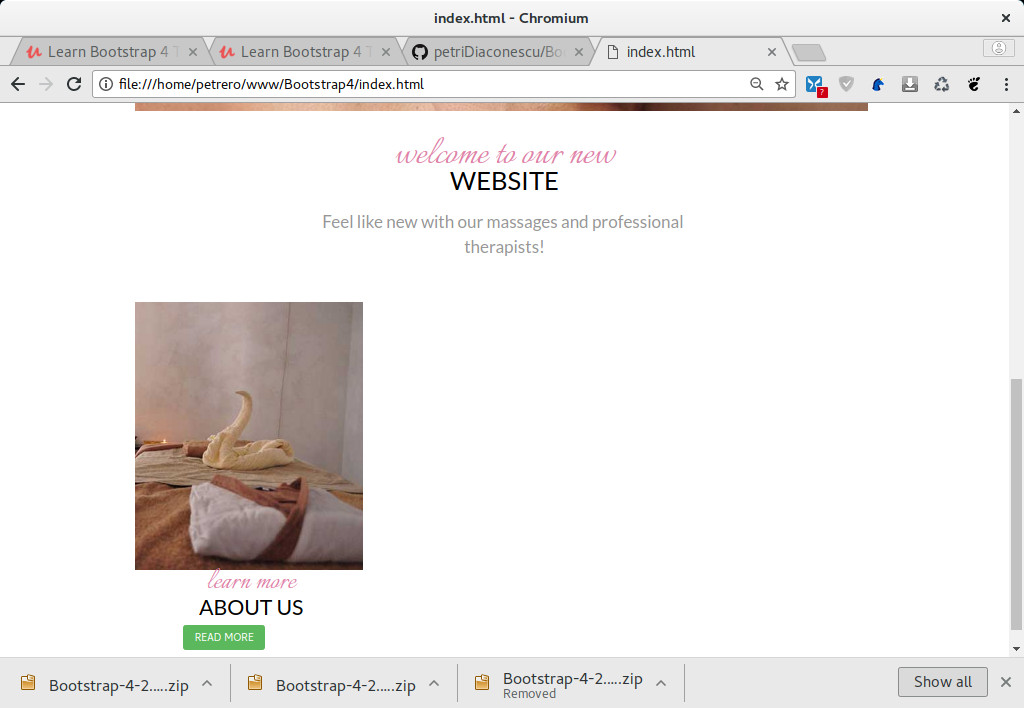
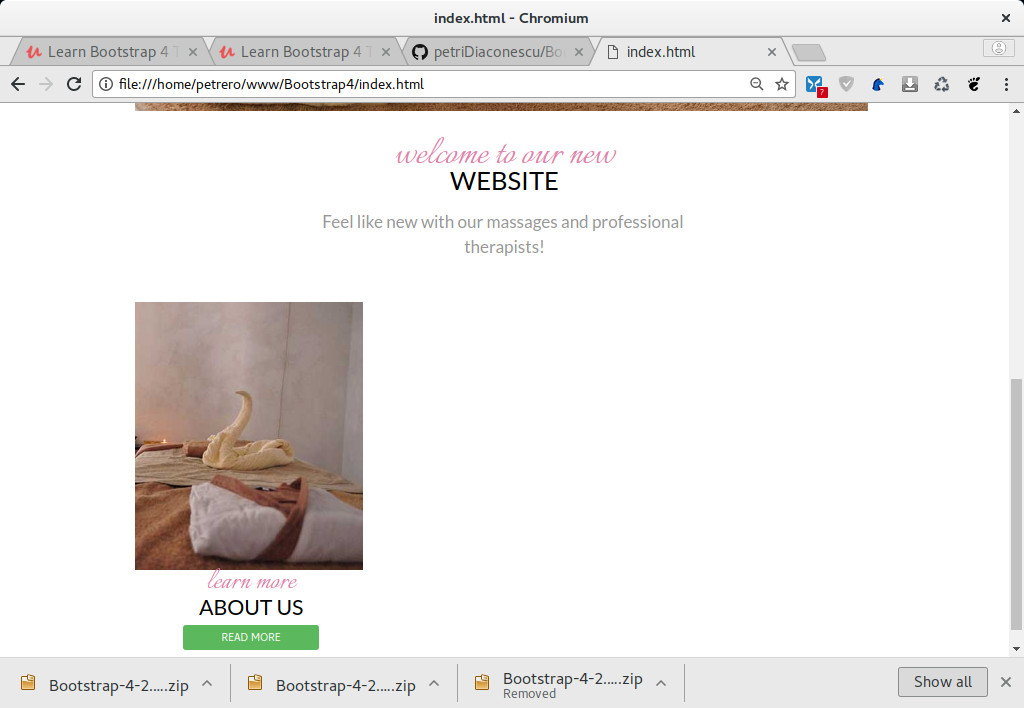
Make the link to take all the space available with btn-block class

Changed region(s): [[0.125, 0.1243, 0.8125, 0.1554], [0.1875, 0.8701, 0.3125, 0.9322]]

diff --git a/index.html b/index.html
@@ -117,7 +117,7 @@
             <img src="img/service_01.jpg" alt="" class="img-fluid" />
             <div class="col-8 offset-2 image-info">
               <h3 class="text-center text-uppercase"><span class="text-lowercase">learn more</span>About Us</h3>
-              <a href="" class="btn btn-success text-uppercase">read more</a>
+              <a href="" class="btn btn-success text-uppercase btn-block">read more</a>
             </div>
           </div>
         </div>
